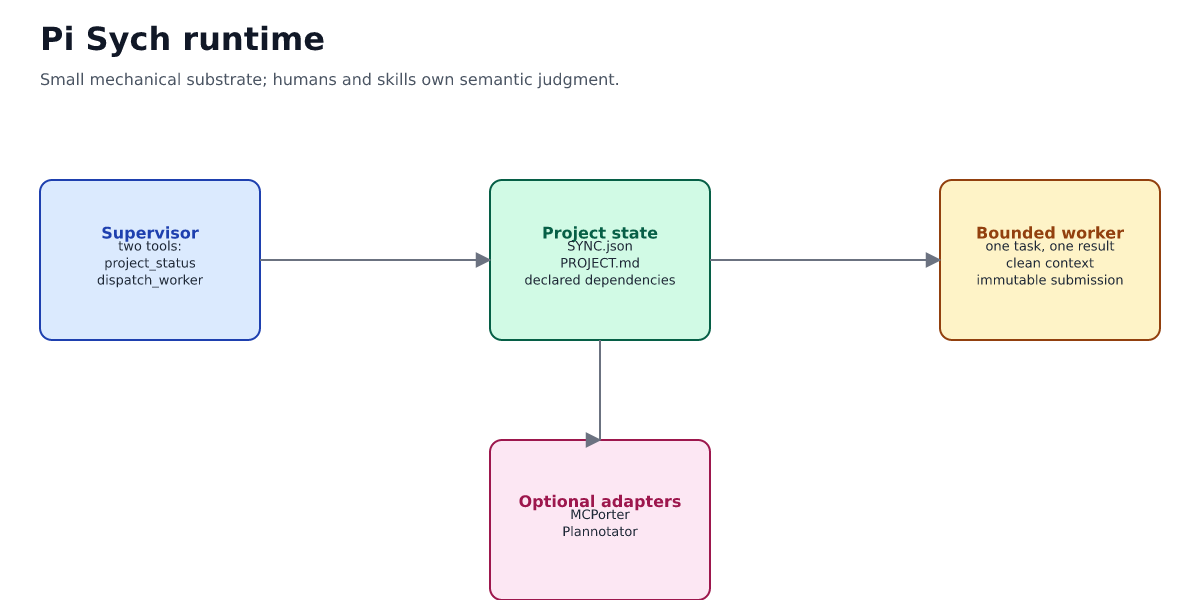
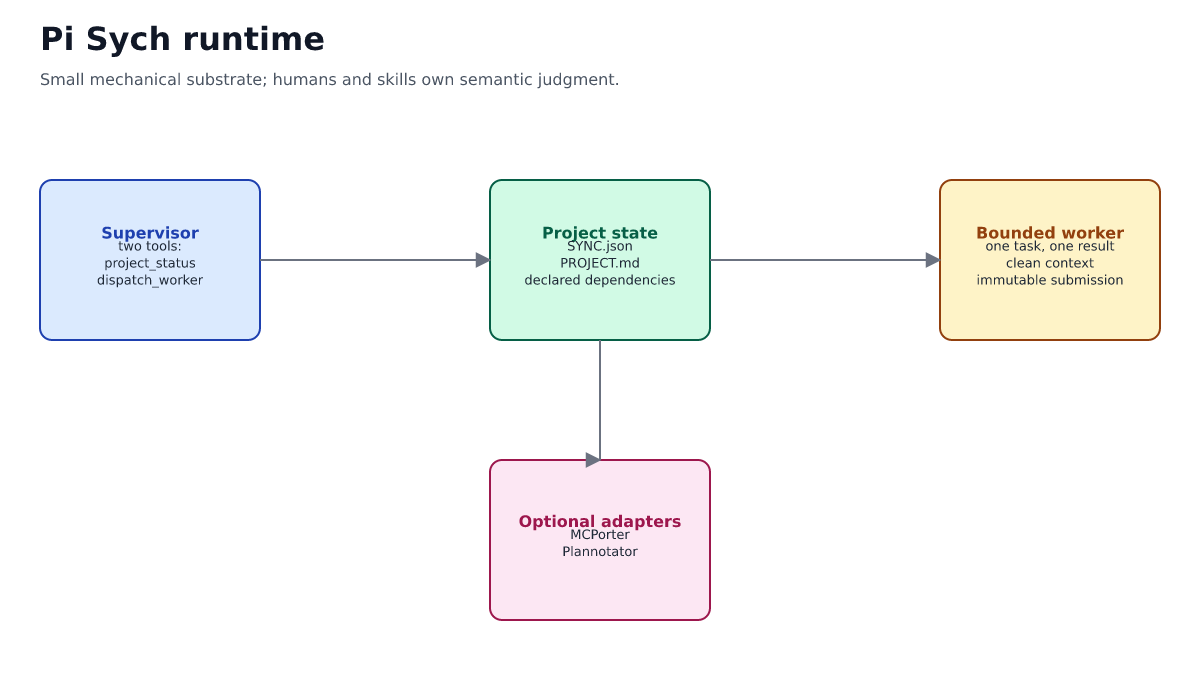
v6.0.2: final review-correction pass
- Fix PI_SYCH_PACKAGE_ROOT off-by-one directory traversal (use import.meta.dirname directly)
- End writeAtomicFile() async disposal scope before rename() for correct cross-platform resource ordering
- Replace chmod-based observation-error test with deterministic EISDIR fixture (directory at tracked path)
- Use mkdtempDisposable() for worker runtime cleanup
- Add regression tests for three-way compaction file filtering and Windows root-relative config paths
- Fix architecture diagram dimensions (height 600→680, lower box y 440→460) so boxes fit in viewport
- Update CHANGELOG, PROJECT.md, EVIDENCE.md, SYNC.json for v6.0.2

Source budget: 1975 actual lines (2000/2000 rounded)
All 66 tests pass, typecheck clean, formatting clean.

diff --git a/extensions/workbench/src/worker-engine.ts b/extensions/workbench/src/worker-engine.ts
@@ -1,7 +1,7 @@
 import { spawn } from "node:child_process";
 import { randomUUID } from "node:crypto";
 import { constants, existsSync, statSync } from "node:fs";
-import { access, mkdir, mkdtemp, open, readFile, rm } from "node:fs/promises";
+import { access, mkdir, mkdtempDisposable, open, readFile, rm } from "node:fs/promises";
 import { tmpdir } from "node:os";
 import { dirname, isAbsolute, resolve } from "node:path";
 import { StringEnum } from "@earendil-works/pi-ai";
@@ -29,7 +29,7 @@ export const DEFAULT_TIMEOUT_MS = 90_000;
 export const MAX_TIMEOUT_MS = 30 * 60_000;
 const LOG_LIMIT = 8_192;
 export const PI_SYCH_PACKAGE_ROOT = resolve(
-	process.env.PI_PACKAGE_DIR ?? resolve(dirname(import.meta.dirname), "../../.."),
+	process.env.PI_PACKAGE_DIR ?? resolve(import.meta.dirname, "../../.."),
 );
 
 export interface ContextFile {
@@ -279,50 +279,47 @@ export async function dispatchWorker(options: {
 			`Worker agent directory is not initialized at ${options.workerAgentDir}. Run: node ${resolve(options.packageRoot ?? PI_SYCH_PACKAGE_ROOT, "scripts/bootstrap-worker-agent-dir.mjs")} --agent-dir ${options.workerAgentDir}`,
 		);
 	}
-	const runtime = await mkdtemp(resolve(tmpdir(), "pi-sych-")),
-		resultPath = resolve(runtime, "result.json");
-	try {
-		const spec: WorkerLaunchSpec = {
+	const runtime = await mkdtempDisposable(resolve(tmpdir(), "pi-sych-")),
+		resultPath = resolve(runtime.path, "result.json");
+	const spec: WorkerLaunchSpec = {
+		id,
+		request: { ...request, contextFiles, timeoutMs },
+		workerAgentDir: options.workerAgentDir,
+		resultPath,
+		projectRoot: options.project.projectRoot,
+		model,
+		prompt: "",
+		packageRoot: options.packageRoot ?? PI_SYCH_PACKAGE_ROOT,
+		extraExtensionPaths:
+			options.extraExtensionPaths ?? remoteResearchExtensionPaths(request.remoteResearch === true),
+		...(options.signal ? { signal: options.signal } : {}),
+	};
+	spec.prompt = taskPrompt(spec, contextFiles);
+	const launch = await (options.launcher ?? launchPiWorker)(spec);
+	if (launch.classification || launch.terminationSignal || launch.exitCode !== 0)
+		return {
 			id,
-			request: { ...request, contextFiles, timeoutMs },
-			workerAgentDir: options.workerAgentDir,
-			resultPath,
-			projectRoot: options.project.projectRoot,
 			model,
-			prompt: "",
-			packageRoot: options.packageRoot ?? PI_SYCH_PACKAGE_ROOT,
-			extraExtensionPaths:
-				options.extraExtensionPaths ??
-				remoteResearchExtensionPaths(request.remoteResearch === true),
-			...(options.signal ? { signal: options.signal } : {}),
+			timeoutMs,
+			launch,
+			error: launch.classification
+				? `Worker ${launch.classification}`
+				: `Worker exited ${launch.exitCode ?? "without an exit code"}${launch.stderr ? `: ${launch.stderr}` : ""}`,
 		};
-		spec.prompt = taskPrompt(spec, contextFiles);
-		const launch = await (options.launcher ?? launchPiWorker)(spec);
-		if (launch.classification || launch.terminationSignal || launch.exitCode !== 0)
-			return {
-				id,
-				model,
-				timeoutMs,
-				launch,
-				error: launch.classification
-					? `Worker ${launch.classification}`
-					: `Worker exited ${launch.exitCode ?? "without an exit code"}${launch.stderr ? `: ${launch.stderr}` : ""}`,
-			};
-		try {
-			const result = validateWorkerResult(JSON.parse(await readFile(resultPath, "utf8")));
-			for (const file of result.files)
-				await resolveExistingProjectPath(options.project.projectRoot, file);
-			return { id, model, timeoutMs, launch, result };
-		} catch (reason) {
-			return {
-				id,
-				model,
-				timeoutMs,
-				launch,
-				error: `Worker result protocol failed: ${reason instanceof Error ? reason.message : String(reason)}`,
-			};
-		}
+	try {
+		const result = validateWorkerResult(JSON.parse(await readFile(resultPath, "utf8")));
+		for (const file of result.files)
+			await resolveExistingProjectPath(options.project.projectRoot, file);
+		return { id, model, timeoutMs, launch, result };
+	} catch (reason) {
+		return {
+			id,
+			model,
+			timeoutMs,
+			launch,
+			error: `Worker result protocol failed: ${reason instanceof Error ? reason.message : String(reason)}`,
+		};
 	} finally {
-		await rm(runtime, { recursive: true, force: true });
+		await runtime.remove();
 	}
 }

diff --git a/extensions/workbench/src/project-files.ts b/extensions/workbench/src/project-files.ts
@@ -183,9 +183,11 @@ export async function writeAtomicFile(path: string, content: string) {
 		temporary = resolve(parent, `.${parse(path).base}.${randomUUID()}.tmp`);
 	await mkdir(parent, { recursive: true });
 	try {
-		await using handle = await open(temporary, "wx", 0o600);
-		await handle.writeFile(content);
-		await handle.sync();
+		{
+			await using handle = await open(temporary, "wx", 0o600);
+			await handle.writeFile(content);
+			await handle.sync();
+		}
 		await rename(temporary, path);
 	} catch (error) {
 		await rm(temporary, { force: true }).catch(() => undefined);

diff --git a/PROJECT.md b/PROJECT.md
@@ -54,30 +54,35 @@ independent substantive review, and no automated workflow controller.
 
 ## Current state
 
-{verified} The unreleased `6.0.0` implementation builds on `5.0.4` with
-a correctness+simplification pass and an independent review corrective
-pass. It raises the Node baseline to 26, centralizes Pi
-configuration-root and named-skill lookup with cross-platform
-validation, distinguishes current/changed/missing/error observation
-states, surfaces artifact observation errors, restores dependency impact
-for missing artifacts, requires active untracked compaction files to
-exist, extracts valid JSON from compaction model output, consolidates
-the model-catalog loader, shares the worker result TypeBox schema,
-removes the MCPorter config existence preflight, and fails fast on
-malformed SYNC.json at startup. Runtime source is 2000/2000 lines within
-the strict budget. v6.0.0 was tagged and pushed to `main`; npm
-publication and Pages publication remain pending an independent review
-gate.
+{verified} The unreleased `6.0.2` implementation builds on `5.0.4` with
+a correctness+simplification pass, an independent review corrective
+pass, and a final review-correction pass. It raises the Node baseline to
+26, centralizes Pi configuration-root and named-skill lookup with
+cross-platform validation, distinguishes current/changed/missing/error
+observation states, surfaces artifact observation errors, restores
+dependency impact for missing artifacts, requires active untracked
+compaction files to exist, extracts valid JSON from compaction model
+output, consolidates the model-catalog loader, shares the worker result
+TypeBox schema, removes the MCPorter config existence preflight, fails
+fast on malformed SYNC.json at startup, fixes `PI_SYCH_PACKAGE_ROOT`
+off-by-one, ends atomic-file disposal before rename, uses
+`mkdtempDisposable()` for worker cleanup, and adds deterministic tests
+and regression coverage. Runtime source is 1,975 actual lines (2000/2000
+rounded). v6.0.0 was tagged; v6.0.1 corrective tag exists; v6.0.2 is the
+current head.
 
 ## Previous action
 
-{verified} Committed the v6.0.0 implementation as `0ae415e8`, updated
-evidence as `7545a407`, and tagged `v6.0.0`. Local gate passed: 65
-tests, source budget 2000/2000, typecheck+style clean. An independent
-review identified three P0 blockers and several P1 simplifications,
-which have been addressed in the current commit set.
+{verified} Committed the v6.0.0 implementation, updated evidence, and
+tagged `v6.0.0`. A corrective `v6.0.1` tag addressed review findings. A
+final `v6.0.2` pass fixed architecture diagram rendering, package-root
+traversal, atomic-file scope, observation-error test determinism, worker
+cleanup, and added regression tests. Local gate passed: 66 tests, source
+budget 1975/2000, typecheck+style clean. An independent review confirmed
+the three previous blockers are genuinely fixed and the two new code
+issues are resolved.
 
 ## Immediate next step
 
-{accepted} Run an independent review gate, then tag and publish `v6.0.0`
-if the review passes.
+{accepted} Run an independent review gate on the `v6.0.2` head, then tag
+and publish `v6.0.2` if the review passes.

diff --git a/EVIDENCE.md b/EVIDENCE.md
@@ -1,5 +1,28 @@
 # Evidence
 
+## E-031 --- v6.0.2 final review-correction pass
+
+**Status:** verified **Kind:** observed deterministic behavior, type
+safety, source budget, and evidence consistency **Source:** current
+source and tests, signed commits, signed tag `v6.0.2`, independent
+review findings, and local gate **Supports:** v6.0.2 release readiness
+after the independent review identified two new code issues and a
+release-state/version problem. **Evidence:** fix `PI_SYCH_PACKAGE_ROOT`
+off-by-one directory traversal (use `import.meta.dirname` directly); end
+`writeAtomicFile()` async disposal scope before `rename()` for correct
+cross-platform resource ordering; replace chmod-based observation-error
+test with deterministic `EISDIR` fixture (directory at tracked path);
+use `mkdtempDisposable()` for worker runtime cleanup; add regression
+tests for three-way compaction file filtering and Windows root-relative
+config paths; regenerate four architecture PNGs with proper box heights
+and line-wrapped text. typecheck, Biome style, Pandoc Markdown check,
+source budget (1,975 actual / 2,000 rounded), 56 unit tests, 10
+integration tests (66 total), packed install, and Pages build passed.
+**Limits:** The acknowledgement read-modify-write race and
+async-disposable cleanup remain identified but not addressed (no
+concurrent writes in current usage; try/finally is sufficient for temp
+directories). **Checked:** 2026-08-07
+
 ## E-030 --- v6.0.0 independent review corrective pass
 
 **Status:** verified **Kind:** observed deterministic behavior, type

diff --git a/CHANGELOG.md b/CHANGELOG.md
@@ -28,6 +28,16 @@ immutable npm publications unless explicitly marked otherwise.
   to "runtime source".
 - Modernize with `crypto.hash()`, `import.meta.dirname`, and
   `Static<typeof schema>` for duplicated request/result types.
+- Fix `PI_SYCH_PACKAGE_ROOT` off-by-one directory traversal (use
+  `import.meta.dirname` directly).
+- End `writeAtomicFile()` async disposal scope before `rename()` for
+  correct cross-platform resource ordering.
+- Replace chmod-based observation-error test with deterministic `EISDIR`
+  fixture (directory at tracked path).
+- Use `mkdtempDisposable()` for worker runtime cleanup.
+- Add regression tests for three-way compaction file filtering and
+  Windows root-relative config paths.
+- Source budget: 1,975 actual lines (2000/2000 rounded).
 
 ## v6.0.0 - Unreleased
 
